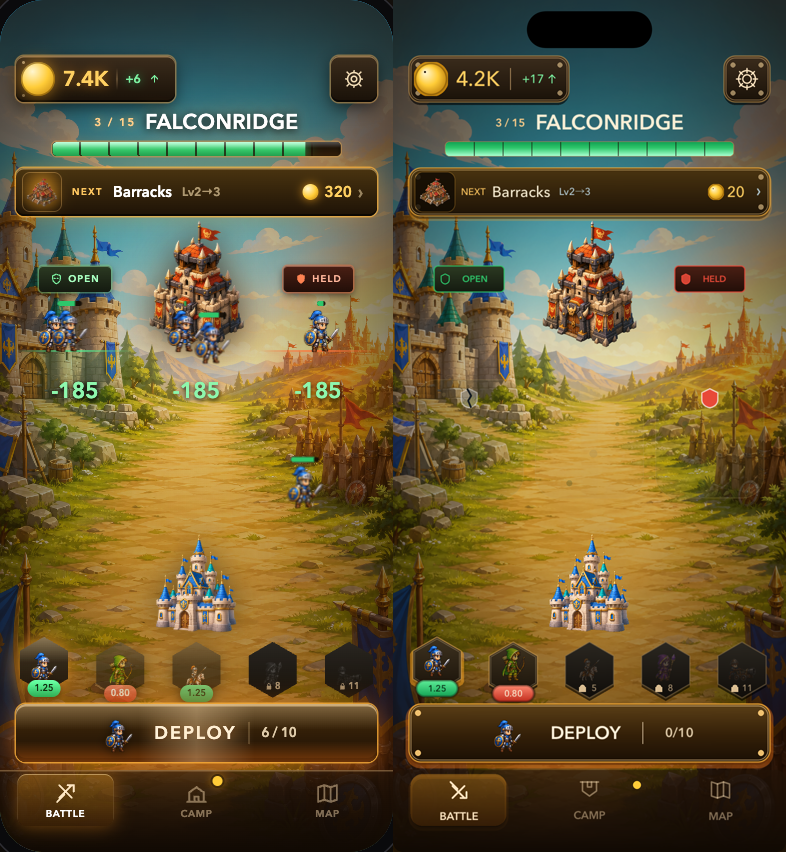
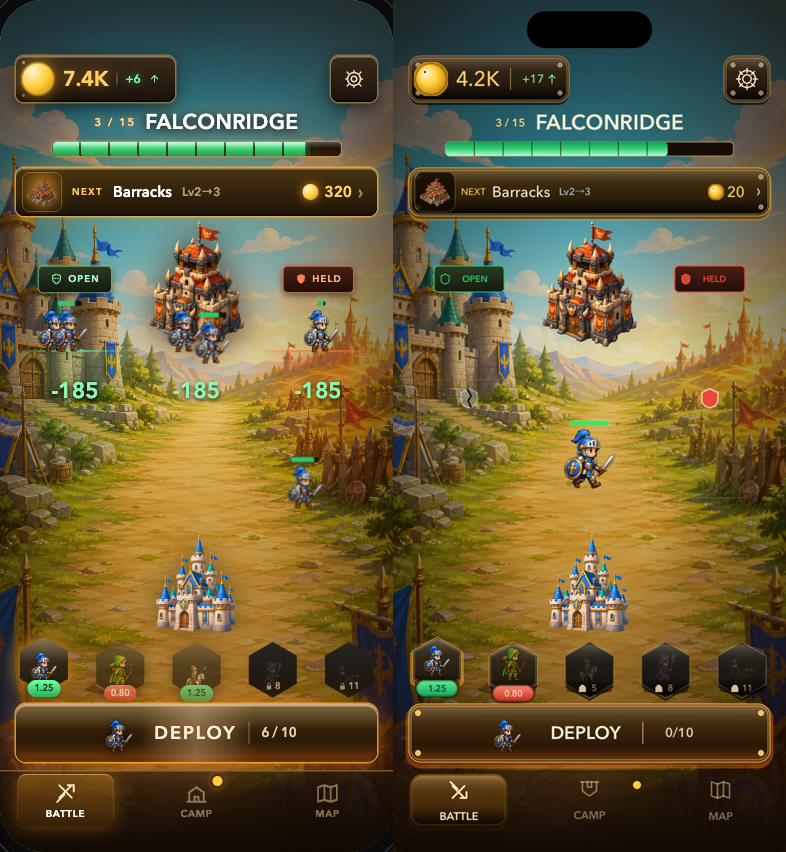
fix: match forged combat feedback styling

diff --git a/Pyxis/BattleScene.swift b/Pyxis/BattleScene.swift
@@ -39,7 +39,7 @@ final class BattleScene: SKScene, LayoutGateLifecycleHandling, SceneLayoutRefres
     }
 
     private enum EffectStyle {
-        static let floatingFeedbackFontSize: CGFloat = 16
+        static let floatingFeedbackFontSize: CGFloat = 22
         static let floatingFeedbackZ: CGFloat = 55
         static let goldBurstZ = GameUITheme.Z.modal + 0.5
         static let goldBurstSparkleZ: CGFloat = 0
@@ -1502,10 +1502,8 @@ final class BattleScene: SKScene, LayoutGateLifecycleHandling, SceneLayoutRefres
         let panelFade = SKAction.fadeOut(withDuration: 0.22)
         let labelWait = SKAction.wait(forDuration: EffectStyle.tooltipVisibleDuration)
         let labelFade = SKAction.fadeOut(withDuration: 0.22)
-        // Reset the dedupe token once the tooltip finishes fading out so that a
-        // repeated identical message (e.g. "Soldiers dealt 5 damage." tick after
-        // tick from a single infantry) can re-trigger the tooltip. Without this,
-        // `presentFeedbackTooltipIfNeeded` would suppress it forever.
+        // Reset the dedupe token once the tooltip finishes fading out so a
+        // repeated action warning can re-trigger the tooltip.
         let resetToken = SKAction.run { [weak self] in
             self?.resetFeedbackTooltipDedupeToken()
         }
@@ -1657,19 +1655,17 @@ final class BattleScene: SKScene, LayoutGateLifecycleHandling, SceneLayoutRefres
 
         let conqueredCity = damageResult.conqueredCities > 0
         let damageText = CompactNumberFormatter.string(from: damageResult.damageDealt)
+        let damageColor = result.soldierAttacks.allSatisfy {
+            state.currentCityDefenseTrait.damageMultiplier(for: $0.type) > 1
+        }
+            ? SKColor(red: 142 / 255, green: 247 / 255, blue: 173 / 255, alpha: 1)
+            : .white
+        feedbackText = ""
 
         if conqueredCity {
             feedbackSettingsController?.setSettingsAccessibilityActionable(false)
             closeFeedbackSettings(focusTarget: .systemDefault)
             clearLiveCombat()
-            // The conquest popup communicates the result; clear any stale
-            // feedback so the tooltip doesn't present behind the overlay and
-            // linger after the popup closes. Clearing (rather than just not
-            // setting) also covers a stale message left over from an earlier
-            // damage tick whose tooltip has already faded (dedupe token reset).
-            feedbackText = ""
-        } else {
-            feedbackText = "Soldiers dealt \(damageText) damage."
         }
 
         persistLiveCombatStateAndEmitFreshOutcomeFeedback(
@@ -1680,11 +1676,11 @@ final class BattleScene: SKScene, LayoutGateLifecycleHandling, SceneLayoutRefres
 
         if conqueredCity {
             if presentPendingConquestReport(origin: .freshLive, resetsContinueState: true) {
-                playFloatingFeedback(text: "-\(damageText)", at: enemyCityImpactPoint)
+                playFloatingFeedback(text: "-\(damageText)", at: enemyCityImpactPoint, color: damageColor)
                 playCityConquestFeedback()
             }
         } else {
-            playFloatingFeedback(text: "-\(damageText)", at: enemyCityImpactPoint)
+            playFloatingFeedback(text: "-\(damageText)", at: enemyCityImpactPoint, color: damageColor)
             playCityHitFeedback()
         }
     }
@@ -2270,23 +2266,48 @@ final class BattleScene: SKScene, LayoutGateLifecycleHandling, SceneLayoutRefres
 
     private func playFloatingFeedback(text: String, at position: CGPoint, color: SKColor = GameUITheme.Color.gold) {
         let label = SKLabelNode(fontNamed: GameUITheme.Font.bold)
+        let shadow = NSShadow()
+        shadow.shadowColor = SKColor(white: 0, alpha: 0.85)
+        shadow.shadowOffset = CGSize(width: 0, height: 2)
+        shadow.shadowBlurRadius = 5
         label.name = EffectName.floatingFeedback
         label.text = text
         label.fontSize = EffectStyle.floatingFeedbackFontSize
         label.fontColor = color
+        label.attributedText = NSAttributedString(
+            string: text,
+            attributes: [
+                .font: UIFont(name: GameUITheme.Font.bold, size: label.fontSize)
+                    ?? UIFont.boldSystemFont(ofSize: label.fontSize),
+                .foregroundColor: color,
+                .shadow: shadow
+            ]
+        )
         label.horizontalAlignmentMode = .center
         label.verticalAlignmentMode = .center
         label.position = CGPoint(x: position.x, y: position.y + 26)
         label.zPosition = EffectStyle.floatingFeedbackZ
         label.alpha = 0
+        label.setScale(0.7)
         effectsLayer.addChild(label)
 
-        let appear = SKAction.fadeIn(withDuration: 0.05)
-        let rise = SKAction.moveBy(x: 0, y: 24, duration: 0.5)
-        rise.timingMode = .easeOut
-        let fade = SKAction.fadeOut(withDuration: 0.2)
+        let appear = SKAction.group([
+            SKAction.fadeIn(withDuration: 0.2),
+            SKAction.moveBy(x: 0, y: 14, duration: 0.2),
+            SKAction.scale(to: 1.12, duration: 0.2)
+        ])
+        appear.timingMode = .easeOut
+        let floatAway = SKAction.group([
+            SKAction.fadeOut(withDuration: 0.9),
+            SKAction.moveBy(x: 0, y: 50, duration: 0.9),
+            SKAction.scale(to: 0.94, duration: 0.9)
+        ])
+        floatAway.timingMode = .easeOut
         let remove = SKAction.removeFromParent()
-        label.run(SKAction.sequence([appear, SKAction.group([rise, fade]), remove]))
+        label.run(
+            SKAction.sequence([appear, floatAway, remove]),
+            withKey: EffectName.floatingFeedback
+        )
     }
 
     private func playTowerShot(at soldierID: BattleCombatState.SoldierID) {

diff --git a/PyxisTests/BattleSceneTests.swift b/PyxisTests/BattleSceneTests.swift
@@ -2182,7 +2182,8 @@ struct BattleSceneTests {
         let store = try makeStore(
             initialState: stateWithBarracks(
                 cityRemainingPower: 50,
-                completedCityCount: 0
+                cityNumberInCountry: 3,
+                completedCityCount: 2
             )
         )
         let scene = makeScene(store: store)
@@ -2191,6 +2192,33 @@ struct BattleSceneTests {
         scene.advanceCombatForTesting(deltaTime: 3.0)
 
         #expect(scene.floatingFeedbackCountForTesting > 0)
+        #expect(scene.feedbackTextForTesting.isEmpty)
+        #expect(!scene.isFeedbackTooltipVisibleForTesting)
+        let damageLabel = try #require(
+            scene.childNode(withName: "//floatingFeedback") as? SKLabelNode
+        )
+        #expect(damageLabel.fontSize == 22)
+        #expect(
+            damageLabel.attributedText?.attribute(
+                .shadow,
+                at: 0,
+                effectiveRange: nil
+            ) is NSShadow
+        )
+        let actionDuration = try #require(
+            damageLabel.action(forKey: "floatingFeedback")?.duration
+        )
+        #expect(abs(actionDuration - 1.1) < 0.001)
+        var red: CGFloat = 0
+        var green: CGFloat = 0
+        var blue: CGFloat = 0
+        var alpha: CGFloat = 0
+        let fontColor = try #require(damageLabel.fontColor)
+        fontColor.getRed(&red, green: &green, blue: &blue, alpha: &alpha)
+        #expect(abs(red - 142 / 255) < 0.01)
+        #expect(abs(green - 247 / 255) < 0.01)
+        #expect(abs(blue - 173 / 255) < 0.01)
+        #expect(alpha == 1)
     }
 
     @Test func cityDamageDoesNotCreateScalingImpactEffect() throws {
@@ -2602,17 +2630,14 @@ struct BattleSceneTests {
     }
 
     @Test func liveConquestClearsStaleFeedbackSoTooltipStaysHiddenBehindPopup() throws {
-        // Regression: the live-combat conquest path only avoided *setting*
-        // `feedbackText`. A stale message left by an earlier damage tick (tooltip
-        // since faded, dedupe token reset to "") would be re-presented behind the
-        // conquest popup during the conquest `redraw`. Mirrors the idle path:
-        // clear `feedbackText` on conquest.
+        // A stale action warning must not be re-presented behind the conquest
+        // popup during the conquest redraw.
         let store = try makeStore(initialState: stateWithBarracks(cityRemainingPower: 1))
         let scene = makeScene(store: store)
 
-        // Reproduce the post-fade stale state: a prior damage tick left a
-        // message in `feedbackText` while the dedupe token has since reset.
-        scene.setFeedbackTextForTesting("Soldiers dealt 5 damage.")
+        // Reproduce the post-fade stale state: an action warning remains in
+        // `feedbackText` while the dedupe token has since reset.
+        scene.setFeedbackTextForTesting("Manual squad is full.")
         #expect(!scene.feedbackTextForTesting.isEmpty)
         #expect(scene.lastPresentedTooltipTextForTesting.isEmpty)
 
@@ -3183,15 +3208,14 @@ struct BattleSceneTests {
 
     @Test func repeatedIdenticalFeedbackRetriggersTooltipAfterFadeOut() throws {
         // Regression: `lastPresentedTooltipText` was never reset after the
-        // tooltip faded out, so a repeated identical message (e.g. "Soldiers
-        // dealt 5 damage." tick after tick from a single infantry attacking a
-        // durable city) would show once then never again — making combat look
-        // stalled. The fix resets the dedupe token when the fade-out completes.
+        // tooltip faded out, so a repeated identical action warning would show
+        // once and then never again.
         let store = try makeStore(initialState: stateWithBarracks(cityRemainingPower: 2000))
         let scene = makeScene(store: store)
 
-        scene.spawnSoldierForTesting()
-        scene.advanceCombatForTesting(deltaTime: 3.0)
+        for _ in 0...KingdomGameState.manualSoldierCap {
+            scene.spawnSoldierForTesting()
+        }
 
         // First attack: tooltip presents and records the dedupe token.
         let firstToken = scene.lastPresentedTooltipTextForTesting
@@ -3202,9 +3226,8 @@ struct BattleSceneTests {
         scene.completeFeedbackTooltipFadeOutForTesting()
         #expect(scene.lastPresentedTooltipTextForTesting.isEmpty)
 
-        // Second attack with the same damage message: the tooltip must
-        // re-present, re-recording the dedupe token.
-        scene.advanceCombatForTesting(deltaTime: 3.0)
+        // Repeating the blocked deploy must re-present the same warning.
+        scene.spawnSoldierForTesting()
         #expect(scene.lastPresentedTooltipTextForTesting == firstToken)
     }
 

diff --git a/Pyxis/GameUIComponents.swift b/Pyxis/GameUIComponents.swift
@@ -11,6 +11,18 @@ final class PanelNode: SKNode {
     private static let shadowColor = SKColor(white: 0, alpha: 0.42)
     private static let primaryActionFillColor = SKColor(red: 0.42, green: 0.25, blue: 0.08, alpha: 0.98)
     private static var forgedGradientTextures = [GradientKey: SKTexture]()
+    private static let forgedTopLightTexture = gradientTexture(
+        colors: [.clear, SKColor(red: 1, green: 235 / 255, blue: 200 / 255, alpha: 0.24)],
+        locations: [0, 1]
+    )
+    private static let forgedFloorShadeTexture = gradientTexture(
+        colors: [SKColor(white: 0, alpha: 0.70), .clear],
+        locations: [0, 1]
+    )
+    private static let forgedDeployFloorTexture = gradientTexture(
+        colors: [SKColor(red: 1, green: 120 / 255, blue: 20 / 255, alpha: 0.40), .clear],
+        locations: [0, 1]
+    )
 
     enum Appearance: Equatable {
         case standard
@@ -46,6 +58,8 @@ final class PanelNode: SKNode {
 
     private let shadow = SKShapeNode()
     private let plate = SKShapeNode()
+    private let topLight = SKShapeNode()
+    private let floorShade = SKShapeNode()
     private let highlight = SKShapeNode()
     private let rivets: [SKShapeNode]
     private(set) var contentSize: CGSize
@@ -95,6 +109,20 @@ final class PanelNode: SKNode {
         shadow.path = panelPath(in: rect, cornerRadius: cornerRadius)
         plate.path = panelPath(in: rect, cornerRadius: cornerRadius)
         let highlightRect = rect.insetBy(dx: 2, dy: 2)
+        let topLightRect = CGRect(
+            x: highlightRect.minX,
+            y: highlightRect.maxY - highlightRect.height * 0.44,
+            width: highlightRect.width,
+            height: highlightRect.height * 0.44
+        )
+        let floorShadeRect = CGRect(
+            x: highlightRect.minX,
+            y: highlightRect.minY,
+            width: highlightRect.width,
+            height: highlightRect.height * 0.36
+        )
+        topLight.path = panelPath(in: topLightRect, cornerRadius: max(0, cornerRadius - 2))
+        floorShade.path = panelPath(in: floorShadeRect, cornerRadius: max(0, cornerRadius - 2))
         highlight.path = panelPath(
             in: highlightRect,
             cornerRadius: max(0, cornerRadius - 2)
@@ -160,6 +188,19 @@ final class PanelNode: SKNode {
         plate.zPosition = -1
         plate.lineWidth = 1.5
         addChild(plate)
+
+        topLight.name = "panelTopLight"
+        topLight.zPosition = -0.8
+        topLight.fillColor = .white
+        topLight.strokeColor = .clear
+        topLight.fillTexture = Self.forgedTopLightTexture
+        addChild(topLight)
+
+        floorShade.name = "panelFloorShade"
+        floorShade.zPosition = -0.7
+        floorShade.fillColor = .white
+        floorShade.strokeColor = .clear
+        addChild(floorShade)
 
         highlight.name = "panelHighlight"
         highlight.fillColor = .clear
@@ -323,6 +364,11 @@ final class PanelNode: SKNode {
             )
             : nil
         plate.strokeColor = strokeColor
+        topLight.isHidden = appearance != .forged
+        floorShade.isHidden = appearance != .forged
+        floorShade.fillTexture = forgedTreatment == .deploy
+            ? Self.forgedDeployFloorTexture
+            : Self.forgedFloorShadeTexture
         highlight.strokeColor = highlightColor
         rivets.forEach {
             $0.fillColor = rivetColor

diff --git a/PyxisTests/GameUIComponentsTests.swift b/PyxisTests/GameUIComponentsTests.swift
@@ -81,7 +81,7 @@ struct GameUIComponentsTests {
         #expect(frame.minY >= -panel.contentSizeForTesting.height / 2 - semanticBoundsPadding)
     }
 
-    @Test func forgedPanelUsesAContinuousGradientWithoutASeparateSheenPlate() throws {
+    @Test func forgedPanelUsesFixedProgressiveSurfaceLayersWithoutAnimatedSheen() throws {
         let panel = PanelNode(size: CGSize(width: 180, height: 58))
         panel.apply(
             size: CGSize(width: 180, height: 58),
@@ -91,8 +91,23 @@ struct GameUIComponentsTests {
         )
 
         let plate = try #require(panel.childNode(withName: "panelPlate") as? SKShapeNode)
+        let topLight = try #require(panel.childNode(withName: "panelTopLight") as? SKShapeNode)
+        let floorShade = try #require(panel.childNode(withName: "panelFloorShade") as? SKShapeNode)
         #expect(plate.fillTexture != nil)
+        #expect(topLight.fillTexture != nil)
+        #expect(floorShade.fillTexture != nil)
+        #expect(!topLight.isHidden)
+        #expect(!floorShade.isHidden)
         #expect(panel.childNode(withName: "panelSheen") == nil)
+    }
+
+    @Test func standardPanelHidesForgedSurfaceLayers() throws {
+        let panel = PanelNode(size: CGSize(width: 180, height: 58))
+
+        let topLight = try #require(panel.childNode(withName: "panelTopLight") as? SKShapeNode)
+        let floorShade = try #require(panel.childNode(withName: "panelFloorShade") as? SKShapeNode)
+        #expect(topLight.isHidden)
+        #expect(floorShade.isHidden)
     }
 
     @Test func forgedPanelReusesItsFixedGradientTextureAcrossReapply() throws {
